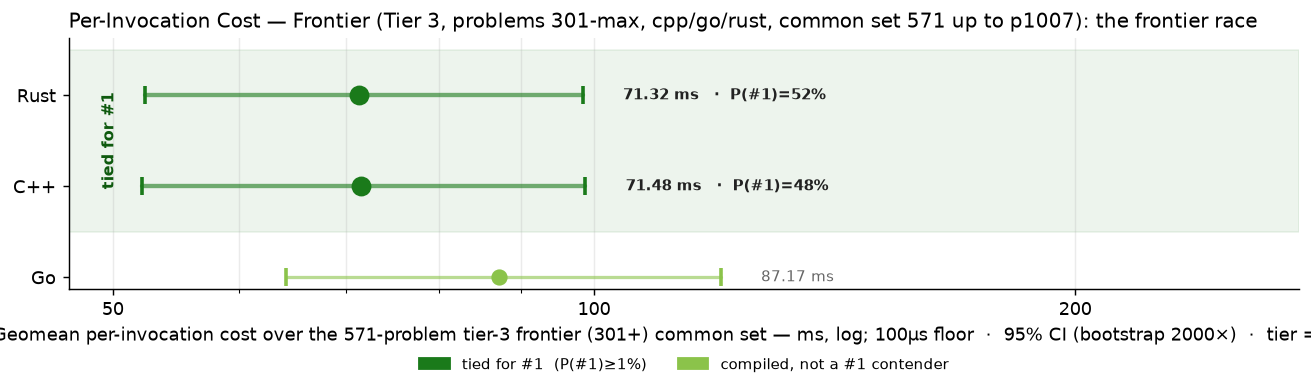
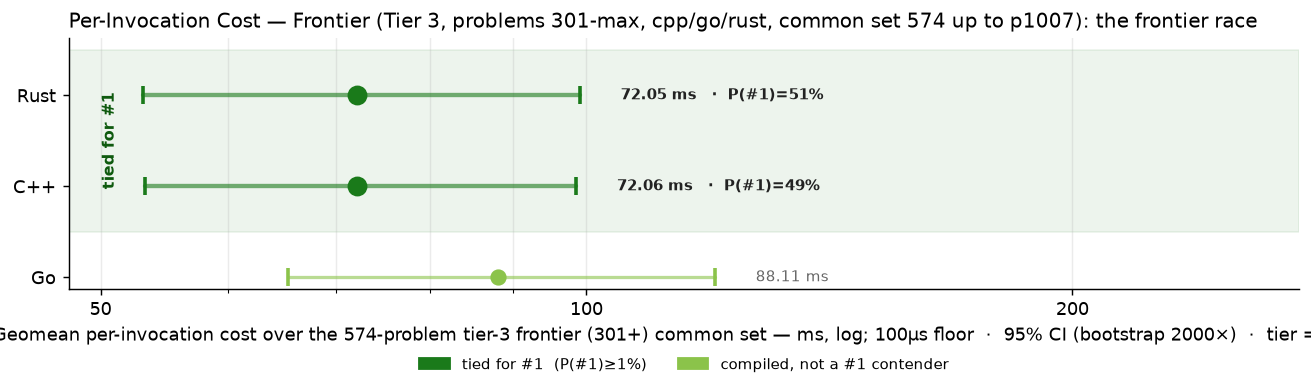
bench: add p0636/p0823/p0977 trios (L32 wave 3)

diff --git a/RESULTS.md b/RESULTS.md
@@ -1,6 +1,6 @@
 # Project Euler — Cross-Language Benchmarks
 
-> **Scope: 4521 in-scope cells across 1007 problems × tiered languages — 4125 measured (91.2% coverage).**
+> **Scope: 4521 in-scope cells across 1007 problems × tiered languages — 4134 measured (91.4% coverage).**
 > The cross-language ranking below is computed over the **200-problem common set** (problems in 1-200 where every language has a passing measurement) — the apples-to-apples Foundation comparison surface.  Per-tier rankings and coverage detail appear further below.
 > Growing carefully — each new problem and language is audited for state-leak
 > safety, verified for answer correctness, and added only when it cleanly fits the
@@ -70,15 +70,15 @@ Same scatter as the Foundation chart, restricted to the tier-2 active languages 
 
 The frontier verification trio — C++, Go, Rust — on problems above 300. 3-way cross-language agreement is the verification protocol (strictly stronger than 2-way; see JOURNEY.md "Tier Reframing" episode for the p254 lesson that motivated it). Python and Zig are explicitly out of this tier — python's wall cost makes it impractical at level 5+, and zig's role caps at Tier 2.
 
-### Per-Invocation Cost (Common Set, 571 of ≤707 problems in scope)
+### Per-Invocation Cost (Common Set, 574 of ≤707 problems in scope)
 
 ![Per-Invocation Cost — Tier 3](charts/per_iter_total_tier3.png)
 
-| Rank | Language | Geomean (571-problem common set) | Total (sum) | Lines of code | vs Fastest |
+| Rank | Language | Geomean (574-problem common set) | Total (sum) | Lines of code | vs Fastest |
 |------|----------|--------------------:|------------:|--------------:|-----------:|
-| 1 | **Rust** | 71.32 ms | 1644.62 s | 101,786 | 1.00× |
-| 2 | **C++** | 71.48 ms | 1728.60 s | 79,951 | 1.00× |
-| 3 | **Go** | 87.17 ms | 2034.90 s | 99,732 | 1.22× |
+| 1 | **Rust** | 72.05 ms | 1647.52 s | 102,616 | 1.00× |
+| 2 | **C++** | 72.06 ms | 1729.65 s | 80,579 | 1.00× |
+| 3 | **Go** | 88.11 ms | 2037.94 s | 100,612 | 1.22× |
 
 ### Speed vs Code Size
 

diff --git a/per_problem/per_problem_0901-1000.md b/per_problem/per_problem_0901-1000.md
@@ -84,7 +84,7 @@ in tier-1 display order (native → managed → interpreted).
 | **p0974** | 4.56 ms | 223.6 µs | 17.01 ms |
 | **p0975** | 1.39 s | 2.03 s | 965.06 ms |
 | **p0976** | — | — | — |
-| **p0977** | — | — | — |
+| **p0977** | 341.28 ms | 370.54 ms | 400.40 ms |
 | **p0978** | <1 µs~ | <1 µs~ | 2.8 µs~ |
 | **p0979** | 12.29 ms | 7.04 ms | 28.55 ms |
 | **p0980** | 175.83 ms | 176.68 ms | 222.43 ms |

diff --git a/per_problem/per_problem_0801-0900.md b/per_problem/per_problem_0801-0900.md
@@ -30,7 +30,7 @@ in tier-1 display order (native → managed → interpreted).
 | **p0820** | 877.34 ms | 651.49 ms | 692.89 ms |
 | **p0821** | — | — | — |
 | **p0822** | 471.61 ms | 375.97 ms | 35.84 ms |
-| **p0823** | — | — | — |
+| **p0823** | 493.58 ms | 145.81 ms | 317.23 ms |
 | **p0824** | — | — | — |
 | **p0825** | — | — | — |
 | **p0826** | 8.80 ms | 1.87 ms | 29.42 ms |

diff --git a/per_problem/per_problem_0601-0700.md b/per_problem/per_problem_0601-0700.md
@@ -43,7 +43,7 @@ in tier-1 display order (native → managed → interpreted).
 | **p0633** | — | — | — |
 | **p0634** | 7.60 ms | 9.09 ms | 9.93 ms |
 | **p0635** | 11.02 s | 5.49 s | 2.66 s |
-| **p0636** | — | — | — |
+| **p0636** | 215.45 ms | 2.38 s | 2.33 s |
 | **p0637** | 39.12 s | 42.00 s | 98.66 s |
 | **p0638** | 76.36 ms | 110.52 ms | 95.54 ms |
 | **p0639** | — | — | — |
